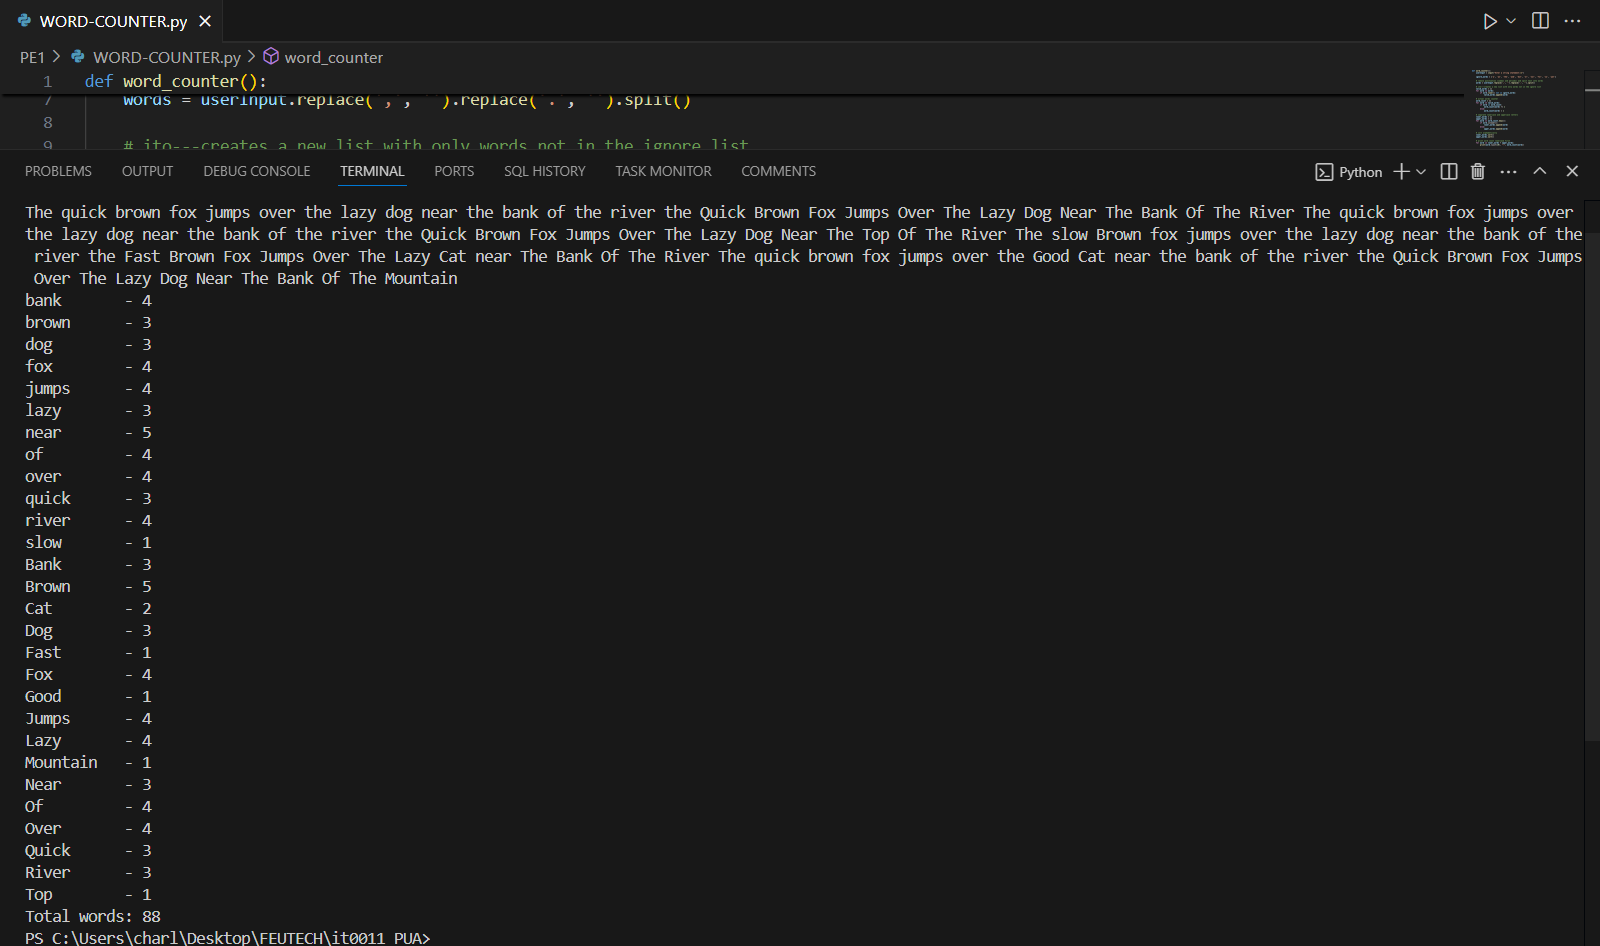
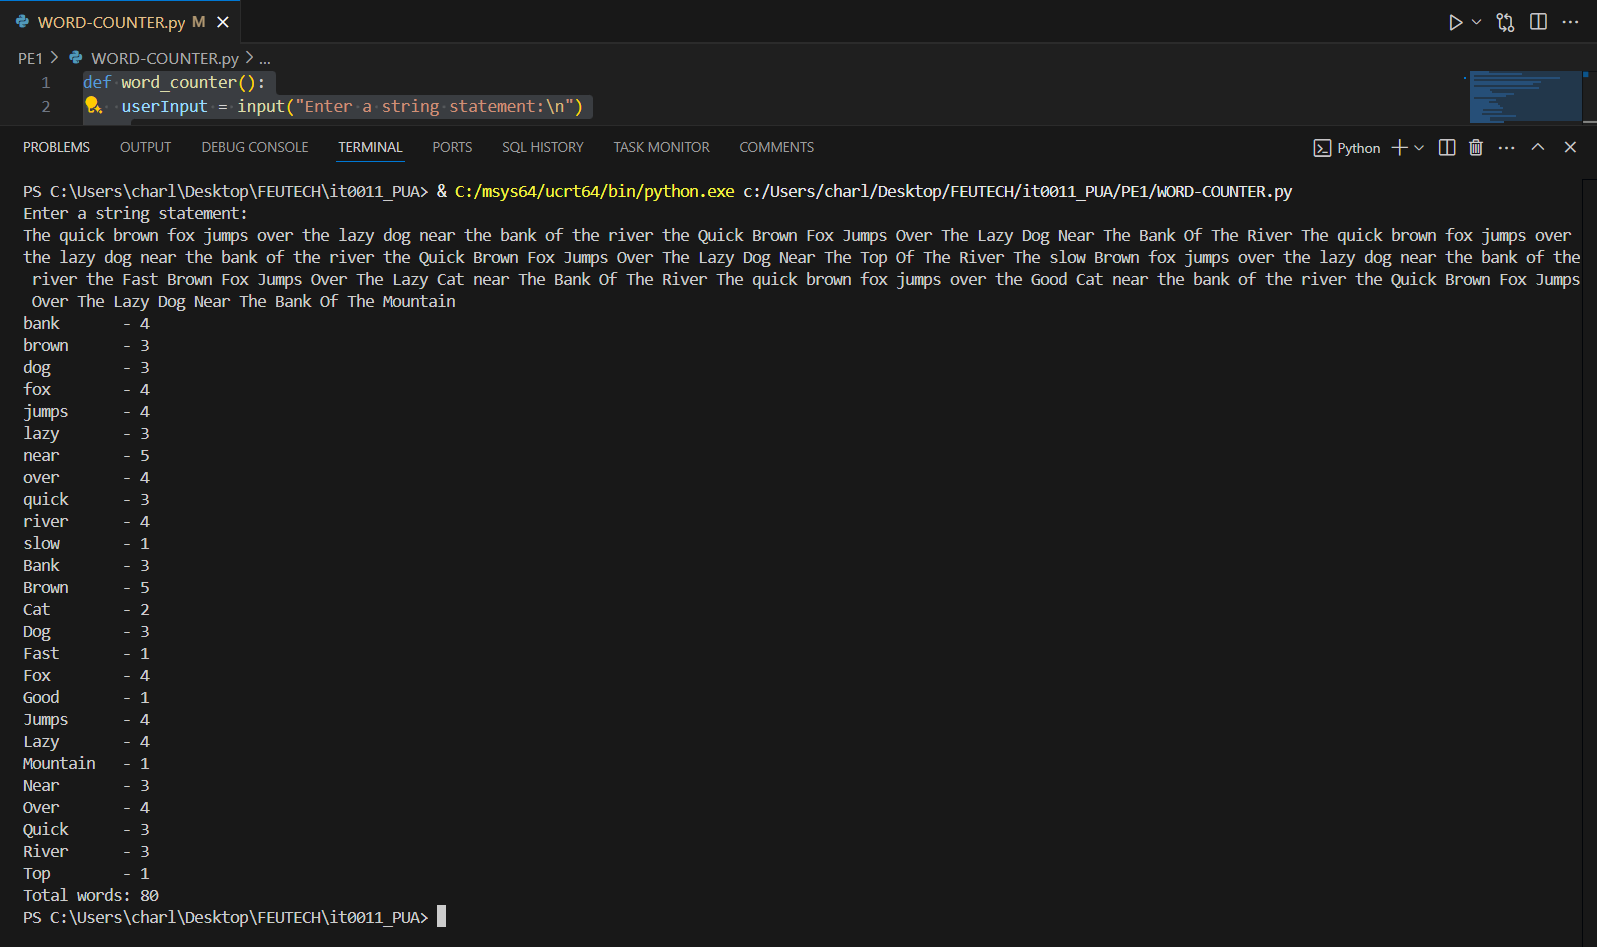
fixed ignore_words

Changed region(s): [[0.0, 0.0, 1.0, 1.0], [0.9205, 0.0, 0.9818, 0.0307]]

diff --git a/PE1/WORD-COUNTER.py b/PE1/WORD-COUNTER.py
@@ -1,7 +1,7 @@
 def word_counter():
     userInput = input("Enter a string statement:\n")
     
-    ignore_words = ['a', 'an', 'the', 'and', 'but', 'or', 'nor', 'for', 'so', 'yet']
+    ignore_words = ['a', 'an', 'the', 'and', 'but', 'or', 'of', 'nor', 'for', 'so', 'yet']
     
     # remove punctuation (commas and periods) and split text into words
     words = userInput.replace(',', '').replace('.', '').split()
